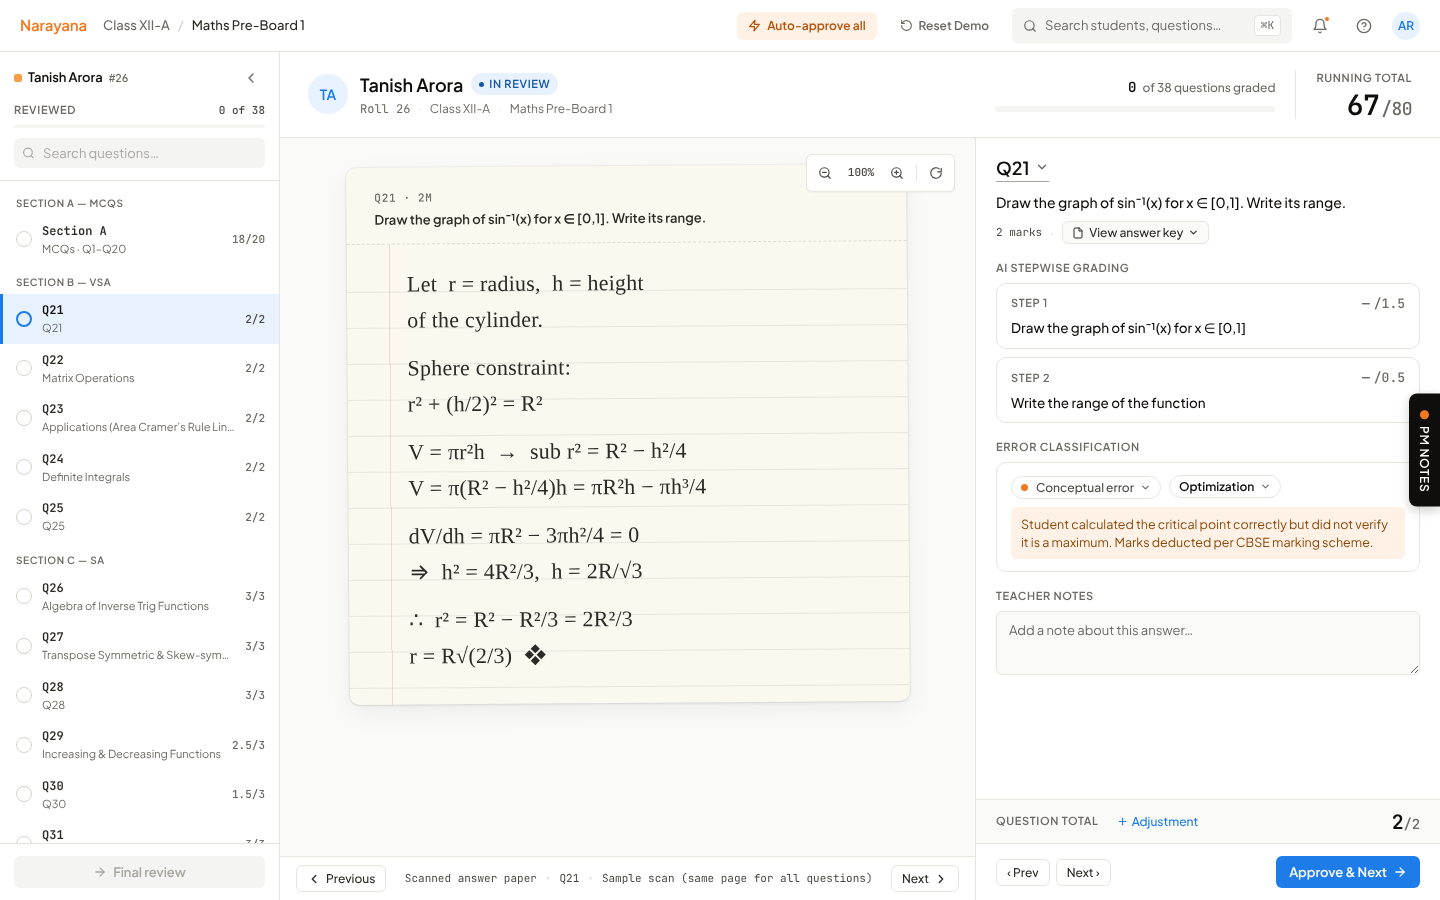
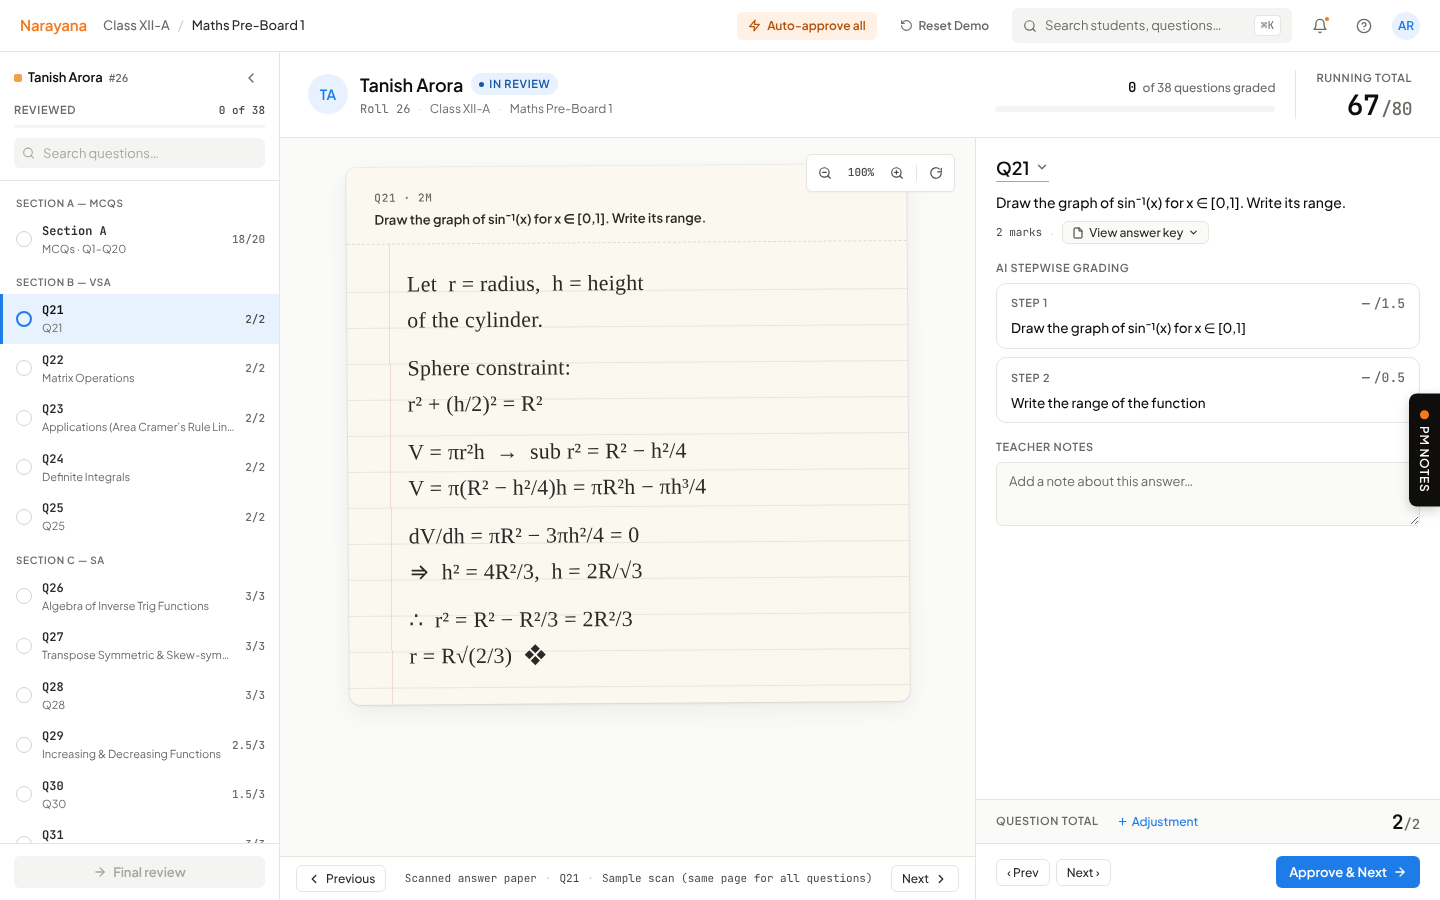
Add files via upload

Changed region(s): [[0.6875, 0.5289, 1.0, 0.6222], [0.6875, 0.6533, 0.8125, 0.7156], [0.6875, 0.4667, 0.75, 0.4978]]

diff --git a/screen-5-grading.html b/screen-5-grading.html
@@ -1666,7 +1666,7 @@
           </div>
 
           <!-- ERROR CLASSIFICATION (question-level summary, split into category + sub-type) -->
-          <div class="ws-block">
+          <div class="ws-block" id="err-block">
             <span class="block-label">Error classification</span>
             <div class="err-class-card">
               <div class="err-tag-row">
@@ -1730,9 +1730,7 @@
                   </div>
                 </div>
               </div>
-              <div class="reason-warning">
-                Student calculated the critical point correctly but did not verify it is a maximum. Marks deducted per CBSE marking scheme.
-              </div>
+              <div class="reason-warning" id="err-reason"></div>
             </div>
           </div>
 
@@ -2217,6 +2215,7 @@ document.addEventListener('click', (e) => {
       var pq = $('paper-question');
       if (pq) { pq.innerHTML = '<span class="qmeta">' + cur + ' · ' + q.max_marks + 'm</span>' + esc(questionText(cur, name)); katex(pq); }
       renderAnswerKey(cur, name);
+      renderErrClass(cur, name, q);
       var lc = $('lowconf-banner');
       if (lc) lc.hidden = !(S.isLowConfidence && S.isLowConfidence(name, cur) && !S.isReviewed(name, cur));
       renderSteps(cur, name);
@@ -2224,6 +2223,30 @@ document.addEventListener('click', (e) => {
       renderNotes(cur, name);
       renderActionBar(cur, name);
       katex(document.querySelector('.tools-body .q-text'));
+    }
+
+    /* Error classification follows the answer: hidden for full marks, a prompt to tag otherwise */
+    function renderErrClass(cur, name, q) {
+      var blk = $('err-block'); if (!blk) return;
+      var sc = S.scoreFor(name, cur);
+      if (!sc || sc.marks_awarded >= sc.max_marks) { blk.style.display = 'none'; return; }
+      blk.style.display = '';
+      var src = (q.has_or_variant && q.variants) ? q.variants[0] : q;
+      if (renderErrClass.lastKey !== name + cur) {      // reset pickers only when the answer changes
+        renderErrClass.lastKey = name + cur;
+        $('err-cat-text').textContent = 'Choose error type';
+        $('err-sub-text').textContent = 'Choose sub-type';
+        var dot = $('err-cat-dot'); if (dot) dot.style.background = '#A8A6A0';
+        document.querySelectorAll('#err-cat-menu .err-tag-option, #err-sub-menu .err-tag-option')
+          .forEach(function (o) { o.classList.remove('is-selected'); });
+      }
+      var lost = +(sc.max_marks - sc.marks_awarded).toFixed(1);
+      var reason = $('err-reason');
+      if (!sc.attempted || sc.marks_awarded === 0) {
+        reason.textContent = 'No marks awarded on this question (' + (src.chapter || 'this topic') + '). Tag the error type so it counts in class analytics.';
+      } else {
+        reason.textContent = lost + ' of ' + sc.max_marks + ' marks deducted on ' + (src.chapter || 'this topic') + '. Tag the error type so it counts in class analytics.';
+      }
     }
 
     function renderAll() {
